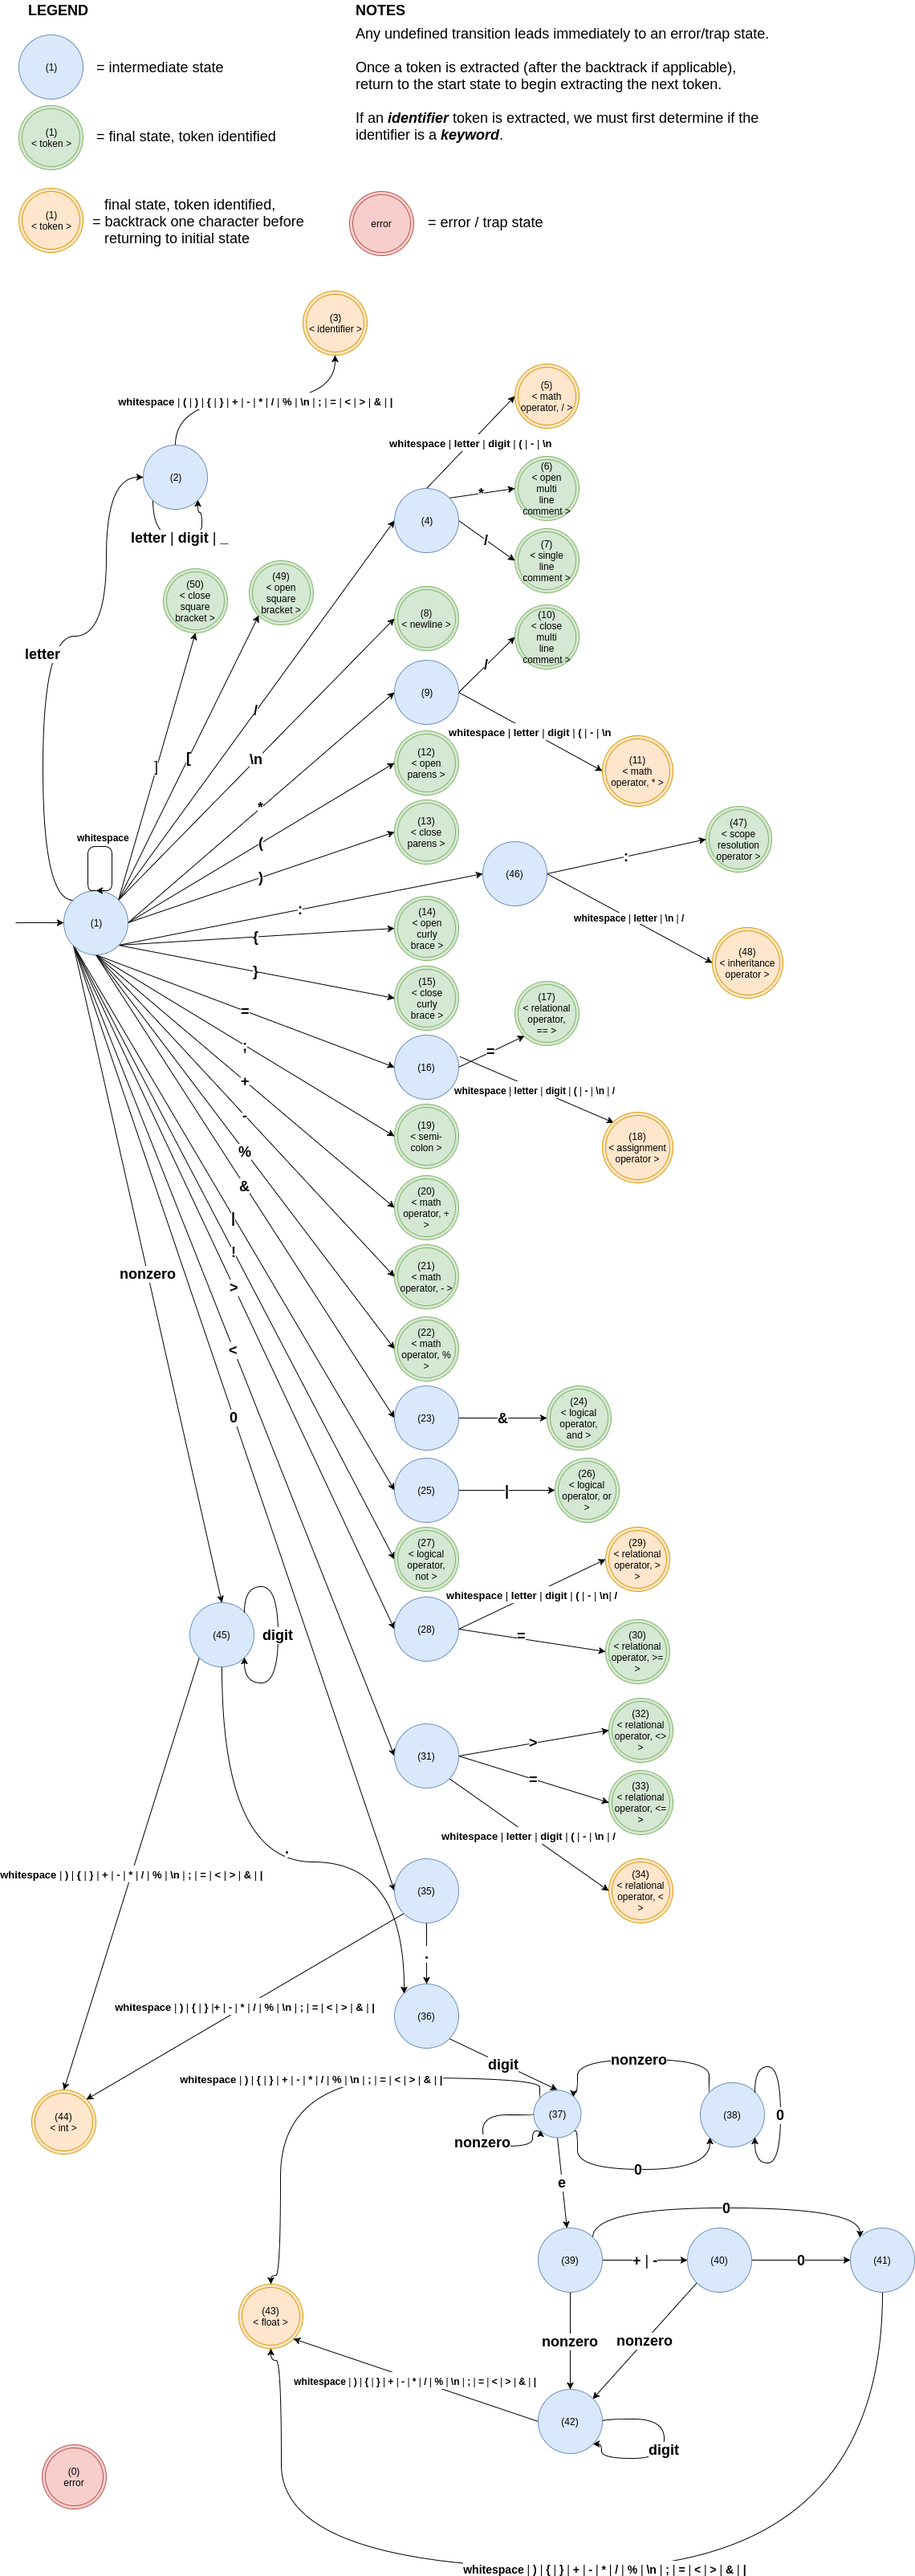
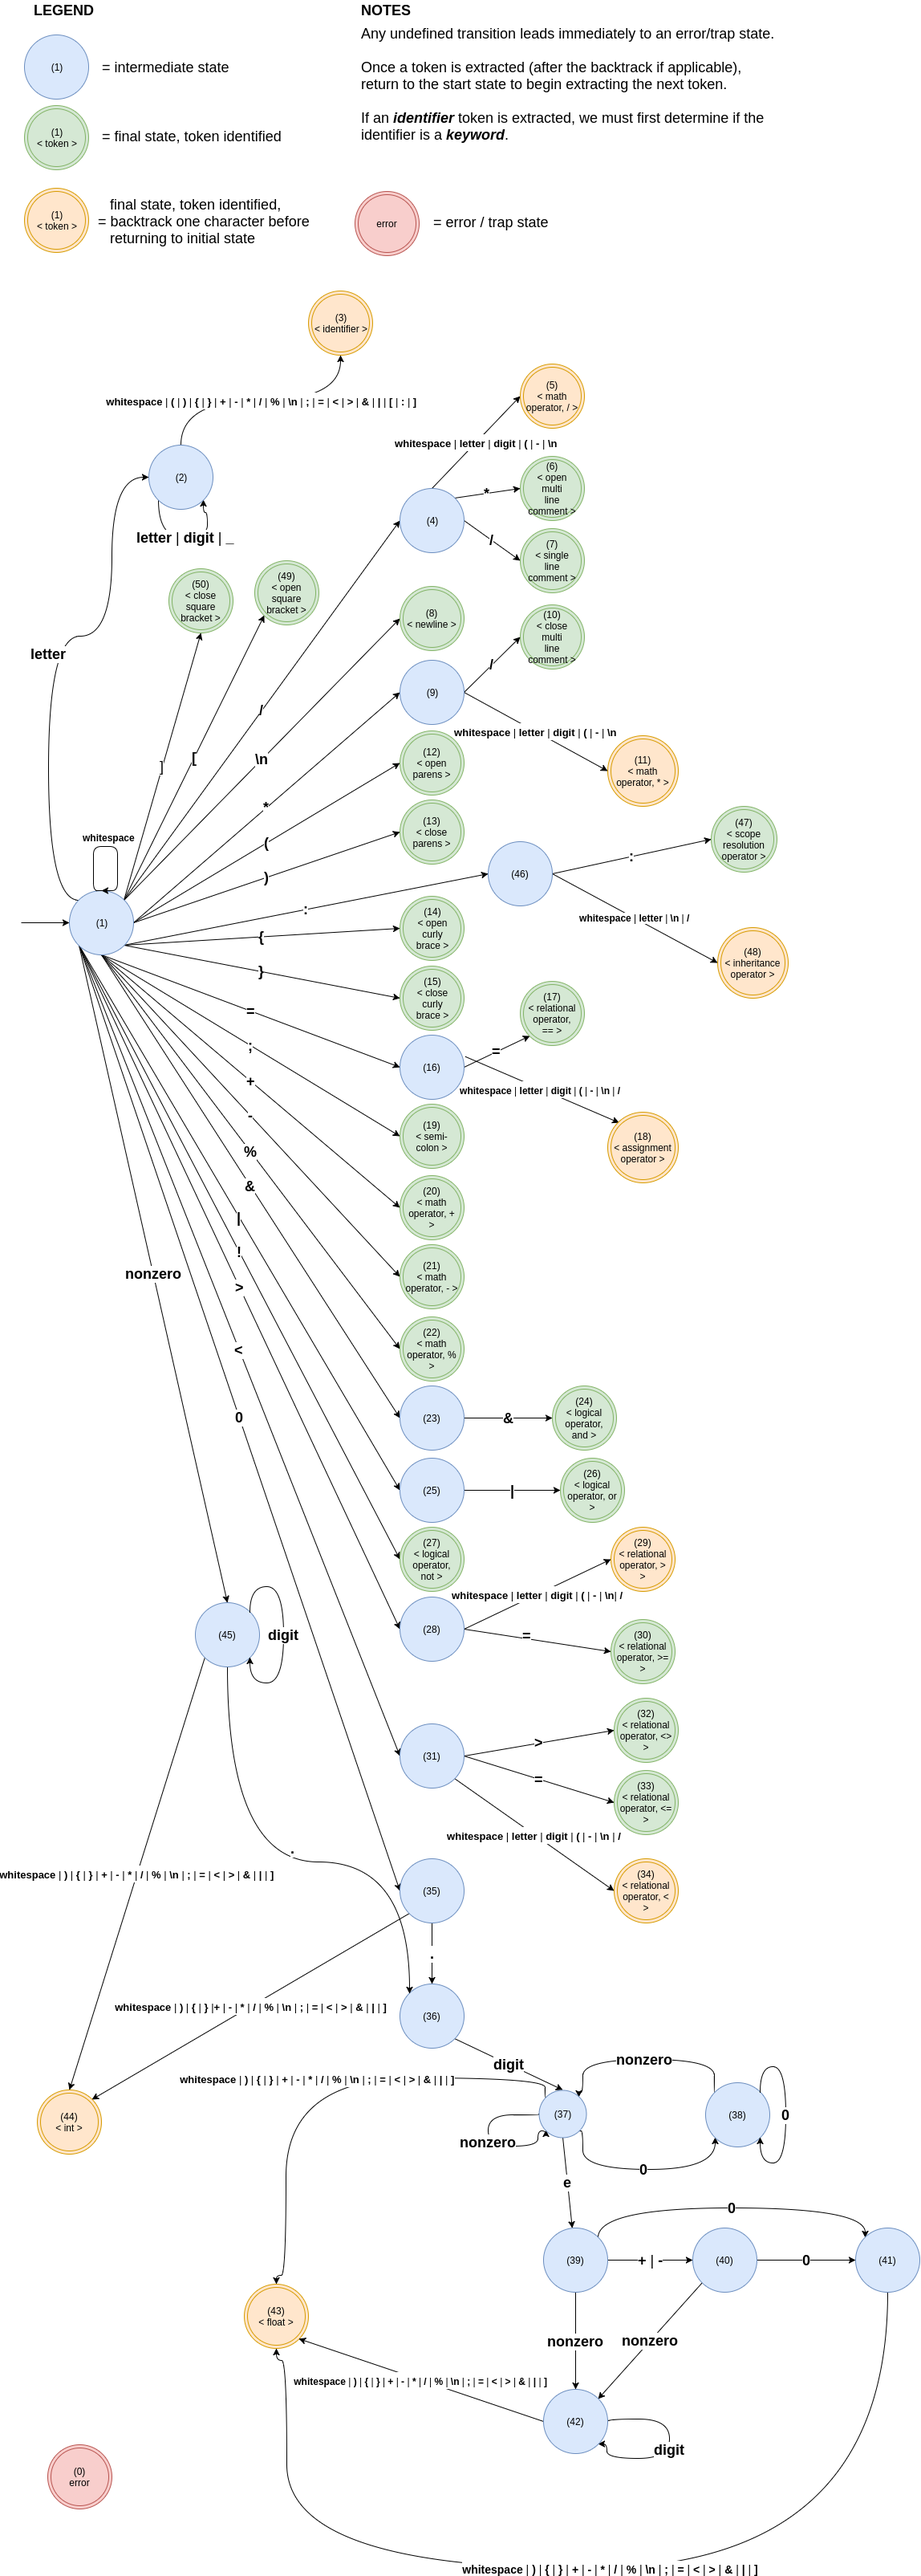
Implements the new array, inheritance and scope resolution operators as tokens in the state transition table of the lexer, fixes all edges cases.

diff --git a/src/lexer/state_transition.rs b/src/lexer/state_transition.rs
@@ -4,53 +4,58 @@ use lexer::Lexer;
 use output;
 
 lazy_static! {
-    static ref STATE_TRANSITION_TABLE:  [[usize; 28]; 46] = [
-        [0,0,0,0,0,0,0,0,0,0,0,0,0,0,0,0,0,0,0,0,0,0,0,0,0,0,0,1],
-        [1,1,8,2,2,45,35,12,13,14,15,20,21,9,4,22,27,23,25,19,28,31,16,0,0,0,0,0],
-        [2,3,3,2,2,2,2,3,3,3,3,3,3,3,3,3,0,3,3,3,3,3,3,2,0,0,0,0],
-        [3,1,1,1,1,1,1,1,1,1,1,1,1,1,1,1,1,1,1,1,1,1,1,1,1,1,1,0],
-        [4,5,5,5,5,5,5,5,0,0,0,0,5,6,7,0,0,0,0,0,0,0,0,0,0,0,0,0],
-        [5,1,1,1,1,1,1,1,1,1,1,1,1,1,1,1,1,1,1,1,1,1,1,1,1,1,1,0],
-        [6,1,1,1,1,1,1,1,1,1,1,1,1,1,1,1,1,1,1,1,1,1,1,1,1,1,0,0],
-        [7,1,1,1,1,1,1,1,1,1,1,1,1,1,1,1,1,1,1,1,1,1,1,1,1,1,0,0],
-        [8,1,1,1,1,1,1,1,1,1,1,1,1,1,1,1,1,1,1,1,1,1,1,1,1,1,0,0],
-        [9,11,11,11,11,11,11,11,0,0,0,0,11,0,10,0,0,0,0,0,0,0,0,0,0,0,0,0],
-        [10,1,1,1,1,1,1,1,1,1,1,1,1,1,1,1,1,1,1,1,1,1,1,1,1,1,0,0],
-        [11,1,1,1,1,1,1,1,1,1,1,1,1,1,1,1,1,1,1,1,1,1,1,1,1,1,1,0],
-        [12,1,1,1,1,1,1,1,1,1,1,1,1,1,1,1,1,1,1,1,1,1,1,1,1,1,0,0],
-        [13,1,1,1,1,1,1,1,1,1,1,1,1,1,1,1,1,1,1,1,1,1,1,1,1,1,0,0],
-        [14,1,1,1,1,1,1,1,1,1,1,1,1,1,1,1,1,1,1,1,1,1,1,1,1,1,0,0],
-        [15,1,1,1,1,1,1,1,1,1,1,1,1,1,1,1,1,1,1,1,1,1,1,1,1,1,0,0],
-        [16,18,18,18,18,18,18,18,0,0,0,0,18,0,18,0,0,0,0,0,0,0,17,0,0,0,0,0],
-        [17,1,1,1,1,1,1,1,1,1,1,1,1,1,1,1,1,1,1,1,1,1,1,1,1,1,0,0],
-        [18,1,1,1,1,1,1,1,1,1,1,1,1,1,1,1,1,1,1,1,1,1,1,1,1,1,1,0],
-        [19,1,1,1,1,1,1,1,1,1,1,1,1,1,1,1,1,1,1,1,1,1,1,1,1,1,0,0],
-        [20,1,1,1,1,1,1,1,1,1,1,1,1,1,1,1,1,1,1,1,1,1,1,1,1,1,0,0],
-        [21,1,1,1,1,1,1,1,1,1,1,1,1,1,1,1,1,1,1,1,1,1,1,1,1,1,0,0],
-        [22,1,1,1,1,1,1,1,1,1,1,1,1,1,1,1,1,1,1,1,1,1,1,1,1,1,0,0],
-        [23,0,0,0,0,0,0,0,0,0,0,0,0,0,0,0,0,24,0,0,0,0,0,0,0,0,0,0],
-        [24,1,1,1,1,1,1,1,1,1,1,1,1,1,1,1,1,1,1,1,1,1,1,1,1,1,0,0],
-        [25,0,0,0,0,0,0,0,0,0,0,0,0,0,0,0,0,0,26,0,0,0,0,0,0,0,0,0],
-        [26,1,1,1,1,1,1,1,1,1,1,1,1,1,1,1,1,1,1,1,1,1,1,1,1,1,0,0],
-        [27,1,1,1,1,1,1,1,1,1,1,1,1,1,1,1,1,1,1,1,1,1,1,1,1,1,0,0],
-        [28,29,29,29,29,29,29,29,0,0,0,0,29,0,29,0,0,0,0,0,0,0,30,0,0,0,0,0],
-        [29,1,1,1,1,1,1,1,1,1,1,1,1,1,1,1,1,1,1,1,1,1,1,1,1,1,1,0],
-        [30,1,1,1,1,1,1,1,1,1,1,1,1,1,1,1,1,1,1,1,1,1,1,1,1,1,0,0],
-        [31,34,34,34,34,34,34,34,0,0,0,0,34,0,34,0,0,0,0,0,32,0,33,0,0,0,0,0],
-        [32,1,1,1,1,1,1,1,1,1,1,1,1,1,1,1,1,1,1,1,1,1,1,1,1,1,0,0],
-        [33,1,1,1,1,1,1,1,1,1,1,1,1,1,1,1,1,1,1,1,1,1,1,1,1,1,0,0],
-        [34,1,1,1,1,1,1,1,1,1,1,1,1,1,1,1,1,1,1,1,1,1,1,1,1,1,1,0],
-        [35,44,44,0,0,0,0,0,44,44,44,44,44,44,44,44,0,44,44,44,44,44,44,0,36,0,0,0],
-        [36,0,0,0,0,37,37,0,0,0,0,0,0,0,0,0,0,0,0,0,0,0,0,0,0,0,0,0],
-        [37,43,43,0,39,37,38,0,43,43,43,43,43,43,43,43,0,43,43,43,43,43,43,0,0,0,0,0],
-        [38,0,0,0,0,37,38,0,0,0,0,0,0,0,0,0,0,0,0,0,0,0,0,0,0,0,0,0],
-        [39,0,0,0,0,42,41,0,0,0,0,40,40,0,0,0,0,0,0,0,0,0,0,0,0,0,0,0],
-        [40,0,0,0,0,42,41,0,0,0,0,0,0,0,0,0,0,0,0,0,0,0,0,0,0,0,0,0],
-        [41,43,43,0,0,0,0,0,43,43,43,43,43,43,43,43,0,43,43,43,43,43,43,0,0,0,0,0],
-        [42,43,43,0,0,42,42,0,43,43,43,43,43,43,43,43,0,43,43,43,43,43,43,0,0,0,0,0],
-        [43,1,1,1,1,1,1,1,1,1,1,1,1,1,1,1,1,1,1,1,1,1,1,1,1,1,1,0],
-        [44,1,1,1,1,1,1,1,1,1,1,1,1,1,1,1,1,1,1,1,1,1,1,1,1,1,1,0],
-        [45,44,44,0,0,45,45,0,44,44,44,44,44,44,44,44,0,44,44,44,44,44,44,0,36,0,0,0]
+    static ref STATE_TRANSITION_TABLE:  [[usize; 31]; 51] = [
+        [0,0,0,0,0,0,0,0,0,0,0,0,0,0,0,0,0,0,0,0,0,0,0,0,0,0,0,0,0,0,1],
+        [1,1,8,2,2,45,35,12,13,14,15,20,21,9,4,22,27,23,25,19,28,31,16,0,0,46,49,50,0,0,0],
+        [2,3,3,2,2,2,2,3,3,3,3,3,3,3,3,3,0,3,3,3,3,3,3,2,0,3,3,3,0,0,0],
+        [3,1,1,1,1,1,1,1,1,1,1,1,1,1,1,1,1,1,1,1,1,1,1,1,1,1,1,1,1,1,0],
+        [4,5,5,5,5,5,5,5,0,0,0,0,5,6,7,0,0,0,0,0,0,0,0,0,0,0,0,0,0,0,0],
+        [5,1,1,1,1,1,1,1,1,1,1,1,1,1,1,1,1,1,1,1,1,1,1,1,1,1,1,1,1,1,0],
+        [6,1,1,1,1,1,1,1,1,1,1,1,1,1,1,1,1,1,1,1,1,1,1,1,1,1,1,1,1,0,0],
+        [7,1,1,1,1,1,1,1,1,1,1,1,1,1,1,1,1,1,1,1,1,1,1,1,1,1,1,1,1,0,0],
+        [8,1,1,1,1,1,1,1,1,1,1,1,1,1,1,1,1,1,1,1,1,1,1,1,1,1,1,1,1,0,0],
+        [9,11,11,11,11,11,11,11,0,0,0,0,11,0,10,0,0,0,0,0,0,0,0,0,0,0,0,0,0,0,0],
+        [10,1,1,1,1,1,1,1,1,1,1,1,1,1,1,1,1,1,1,1,1,1,1,1,1,1,1,1,1,0,0],
+        [11,1,1,1,1,1,1,1,1,1,1,1,1,1,1,1,1,1,1,1,1,1,1,1,1,1,1,1,1,1,0],
+        [12,1,1,1,1,1,1,1,1,1,1,1,1,1,1,1,1,1,1,1,1,1,1,1,1,1,1,1,1,0,0],
+        [13,1,1,1,1,1,1,1,1,1,1,1,1,1,1,1,1,1,1,1,1,1,1,1,1,1,1,1,1,0,0],
+        [14,1,1,1,1,1,1,1,1,1,1,1,1,1,1,1,1,1,1,1,1,1,1,1,1,1,1,1,1,0,0],
+        [15,1,1,1,1,1,1,1,1,1,1,1,1,1,1,1,1,1,1,1,1,1,1,1,1,1,1,1,1,0,0],
+        [16,18,18,18,18,18,18,18,0,0,0,0,18,0,18,0,0,0,0,0,0,0,17,0,0,0,0,0,0,0,0],
+        [17,1,1,1,1,1,1,1,1,1,1,1,1,1,1,1,1,1,1,1,1,1,1,1,1,1,1,1,1,0,0],
+        [18,1,1,1,1,1,1,1,1,1,1,1,1,1,1,1,1,1,1,1,1,1,1,1,1,1,1,1,1,1,0],
+        [19,1,1,1,1,1,1,1,1,1,1,1,1,1,1,1,1,1,1,1,1,1,1,1,1,1,1,1,1,0,0],
+        [20,1,1,1,1,1,1,1,1,1,1,1,1,1,1,1,1,1,1,1,1,1,1,1,1,1,1,1,1,0,0],
+        [21,1,1,1,1,1,1,1,1,1,1,1,1,1,1,1,1,1,1,1,1,1,1,1,1,1,1,1,1,0,0],
+        [22,1,1,1,1,1,1,1,1,1,1,1,1,1,1,1,1,1,1,1,1,1,1,1,1,1,1,1,1,0,0],
+        [23,0,0,0,0,0,0,0,0,0,0,0,0,0,0,0,0,24,0,0,0,0,0,0,0,0,0,0,0,0,0],
+        [24,1,1,1,1,1,1,1,1,1,1,1,1,1,1,1,1,1,1,1,1,1,1,1,1,1,1,1,1,0,0],
+        [25,0,0,0,0,0,0,0,0,0,0,0,0,0,0,0,0,0,26,0,0,0,0,0,0,0,0,0,0,0,0],
+        [26,1,1,1,1,1,1,1,1,1,1,1,1,1,1,1,1,1,1,1,1,1,1,1,1,1,1,1,1,0,0],
+        [27,1,1,1,1,1,1,1,1,1,1,1,1,1,1,1,1,1,1,1,1,1,1,1,1,1,1,1,1,0,0],
+        [28,29,29,29,29,29,29,29,0,0,0,0,29,0,29,0,0,0,0,0,0,0,30,0,0,0,0,0,0,0,0],
+        [29,1,1,1,1,1,1,1,1,1,1,1,1,1,1,1,1,1,1,1,1,1,1,1,1,1,1,1,1,1,0],
+        [30,1,1,1,1,1,1,1,1,1,1,1,1,1,1,1,1,1,1,1,1,1,1,1,1,1,1,1,1,0,0],
+        [31,34,34,34,34,34,34,34,0,0,0,0,34,0,34,0,0,0,0,0,32,0,33,0,0,0,0,0,0,0,0],
+        [32,1,1,1,1,1,1,1,1,1,1,1,1,1,1,1,1,1,1,1,1,1,1,1,1,1,1,1,1,0,0],
+        [33,1,1,1,1,1,1,1,1,1,1,1,1,1,1,1,1,1,1,1,1,1,1,1,1,1,1,1,1,0,0],
+        [34,1,1,1,1,1,1,1,1,1,1,1,1,1,1,1,1,1,1,1,1,1,1,1,1,1,1,1,1,1,0],
+        [35,44,44,0,0,0,0,0,44,44,44,44,44,44,44,44,0,44,44,44,44,44,44,0,36,0,0,44,0,0,0],
+        [36,0,0,0,0,37,37,0,0,0,0,0,0,0,0,0,0,0,0,0,0,0,0,0,0,0,0,0,0,0,0],
+        [37,43,43,0,39,37,38,0,43,43,43,43,43,43,43,43,0,43,43,43,43,43,43,0,0,0,0,43,0,0,0],
+        [38,0,0,0,0,37,38,0,0,0,0,0,0,0,0,0,0,0,0,0,0,0,0,0,0,0,0,0,0,0,0],
+        [39,0,0,0,0,42,41,0,0,0,0,40,40,0,0,0,0,0,0,0,0,0,0,0,0,0,0,0,0,0,0],
+        [40,0,0,0,0,42,41,0,0,0,0,0,0,0,0,0,0,0,0,0,0,0,0,0,0,0,0,0,0,0,0],
+        [41,43,43,0,0,0,0,0,43,43,43,43,43,43,43,43,0,43,43,43,43,43,43,0,0,0,0,43,0,0,0],
+        [42,43,43,0,0,42,42,0,43,43,43,43,43,43,43,43,0,43,43,43,43,43,43,0,0,0,0,43,0,0,0],
+        [43,1,1,1,1,1,1,1,1,1,1,1,1,1,1,1,1,1,1,1,1,1,1,1,1,1,1,1,1,1,0],
+        [44,1,1,1,1,1,1,1,1,1,1,1,1,1,1,1,1,1,1,1,1,1,1,1,1,1,1,1,1,1,0],
+        [45,44,44,0,0,45,45,0,44,44,44,44,44,44,44,44,0,44,44,44,44,44,44,0,36,0,0,44,0,0,0],
+        [46,48,48,48,0,0,0,0,0,0,0,0,0,0,48,0,0,0,0,0,0,0,0,0,0,47,0,0,0,0,0],
+        [47,1,1,1,1,1,1,1,1,1,1,1,1,1,1,1,1,1,1,1,1,1,1,1,1,1,1,1,1,0,0],
+        [48,1,1,1,1,1,1,1,1,1,1,1,1,1,1,1,1,1,1,1,1,1,1,1,1,1,1,1,1,1,0],
+        [49,1,1,1,1,1,1,1,1,1,1,1,1,1,1,1,1,1,1,1,1,1,1,1,1,1,1,1,1,0,0],
+        [50,1,1,1,1,1,1,1,1,1,1,1,1,1,1,1,1,1,1,1,1,1,1,1,1,1,1,1,1,0,0]
     ];
 
     static ref STATE_TRANSITION_CHARS_BY_COLUMN: HashMap<Vec<char>, usize> = {
@@ -79,15 +84,18 @@ lazy_static! {
         m.insert(vec!('='), 22);
         m.insert(vec!('_'), 23);
         m.insert(vec!('.'), 24);
+        m.insert(vec!(':'), 25);
+        m.insert(vec!('['), 26);
+        m.insert(vec!(']'), 27);
         m
     };
 
     static ref STATE_TRANSITION_LABELS_BY_COLUMN: HashMap<&'static str, usize> = {
         let mut m = HashMap::new();
         m.insert("states", 0);
-        m.insert("final", 25);
-        m.insert("backtrack", 26);
-        m.insert("error", 27);
+        m.insert("final", 28);
+        m.insert("backtrack", 29);
+        m.insert("error", 30);
         m
     };
 
@@ -120,6 +128,10 @@ lazy_static! {
         m.insert(34, "< relational_operator, '<' >");
         m.insert(43, "< float >");
         m.insert(44, "< int >");
+        m.insert(47, "< scope_resolution_operator >");
+        m.insert(48, "< inheritance_operator >");
+        m.insert(49, "< open_square_bracket >");
+        m.insert(50, "< close_square_bracket >");
         m
     };
 

diff --git a/docs/src/2-lexer.md b/docs/src/2-lexer.md
@@ -42,7 +42,7 @@ This state transition table was constructed based on the above DFA. The first co
 |:-------:|:-------:|:-----:|:------:|:-----:|:-----:|:-----:|:-----:|:-----:|:-----:|:-----:|:-----:|:-----:|:-----:|:-----:|:-----:|:-----:|:-----:|:-----:|:-----:|:-----:|:-----:|:-----:|:-----:|:-----:|:-----:|:-----:|:-----:|:-----:|:-----:|:-----:|:-----:|
 |0|0|0|0|0|0|0|0|0|0|0|0|0|0|0|0|0|0|0|0|0|0|0|0|0|0|0|0|0|0|1||
 |1|1|8|2|2|45|35|12|13|14|15|20|21|9|4|22|27|23|25|19|28|31|16|0|0|46|49|50|0|0|0||
-|2|3|3|2|2|2|2|3|3|3|3|3|3|3|3|3|0|3|3|3|3|3|3|2|0|0|0|0|0|0|0||
+|2|3|3|2|2|2|2|3|3|3|3|3|3|3|3|3|0|3|3|3|3|3|3|2|0|3|3|3|0|0|0||
 |3|1|1|1|1|1|1|1|1|1|1|1|1|1|1|1|1|1|1|1|1|1|1|1|1|1|1|1|1|1|0|`<identifier,>`<br/>`<keyword,>`|
 |4|5|5|5|5|5|5|5|0|0|0|0|5|6|7|0|0|0|0|0|0|0|0|0|0|0|0|0|0|0|0||
 |5|1|1|1|1|1|1|1|1|1|1|1|1|1|1|1|1|1|1|1|1|1|1|1|1|1|1|1|1|1|0|`<math_operator,/>`|
@@ -75,17 +75,17 @@ This state transition table was constructed based on the above DFA. The first co
 |32|1|1|1|1|1|1|1|1|1|1|1|1|1|1|1|1|1|1|1|1|1|1|1|1|1|1|1|1|0|0|`<relational_operator,<>>`|
 |33|1|1|1|1|1|1|1|1|1|1|1|1|1|1|1|1|1|1|1|1|1|1|1|1|1|1|1|1|0|0|`<relational_operator,<=>`|
 |34|1|1|1|1|1|1|1|1|1|1|1|1|1|1|1|1|1|1|1|1|1|1|1|1|1|1|1|1|1|0|`<relational_operator,<>`|
-|35|44|44|0|0|0|0|0|44|44|44|44|44|44|44|44|0|44|44|44|44|44|44|0|36|0|0|0|0|0|0||
+|35|44|44|0|0|0|0|0|44|44|44|44|44|44|44|44|0|44|44|44|44|44|44|0|36|0|0|44|0|0|0||
 |36|0|0|0|0|37|37|0|0|0|0|0|0|0|0|0|0|0|0|0|0|0|0|0|0|0|0|0|0|0|0||
-|37|43|43|0|39|37|38|0|43|43|43|43|43|43|43|43|0|43|43|43|43|43|43|0|0|0|0|0|0|0|0||
+|37|43|43|0|39|37|38|0|43|43|43|43|43|43|43|43|0|43|43|43|43|43|43|0|0|0|0|43|0|0|0||
 |38|0|0|0|0|37|38|0|0|0|0|0|0|0|0|0|0|0|0|0|0|0|0|0|0|0|0|0|0|0|0||
 |39|0|0|0|0|42|41|0|0|0|0|40|40|0|0|0|0|0|0|0|0|0|0|0|0|0|0|0|0|0|0||
 |40|0|0|0|0|42|41|0|0|0|0|0|0|0|0|0|0|0|0|0|0|0|0|0|0|0|0|0|0|0|0||
-|41|43|43|0|0|0|0|0|43|43|43|43|43|43|43|43|0|43|43|43|43|43|43|0|0|0|0|0|0|0|0||
-|42|43|43|0|0|42|42|0|43|43|43|43|43|43|43|43|0|43|43|43|43|43|43|0|0|0|0|0|0|0|0||
+|41|43|43|0|0|0|0|0|43|43|43|43|43|43|43|43|0|43|43|43|43|43|43|0|0|0|0|43|0|0|0||
+|42|43|43|0|0|42|42|0|43|43|43|43|43|43|43|43|0|43|43|43|43|43|43|0|0|0|0|43|0|0|0||
 |43|1|1|1|1|1|1|1|1|1|1|1|1|1|1|1|1|1|1|1|1|1|1|1|1|1|1|1|1|1|0|`<float,>`|
 |44|1|1|1|1|1|1|1|1|1|1|1|1|1|1|1|1|1|1|1|1|1|1|1|1|1|1|1|1|1|0|`<int,>`|
-|45|44|44|0|0|45|45|0|44|44|44|44|44|44|44|44|0|44|44|44|44|44|44|0|36|0|0|0|0|0|0||
+|45|44|44|0|0|45|45|0|44|44|44|44|44|44|44|44|0|44|44|44|44|44|44|0|36|0|0|44|0|0|0||
 |46|48|48|48|0|0|0|0|0|0|0|0|0|0|48|0|0|0|0|0|0|0|0|0|0|47|0|0|0|0|0||
 |47|1|1|1|1|1|1|1|1|1|1|1|1|1|1|1|1|1|1|1|1|1|1|1|1|1|1|1|1|0|0|`<scope_resolution_operator>`|
 |48|1|1|1|1|1|1|1|1|1|1|1|1|1|1|1|1|1|1|1|1|1|1|1|1|1|1|1|1|1|0|`<inheritance_operator>`|
